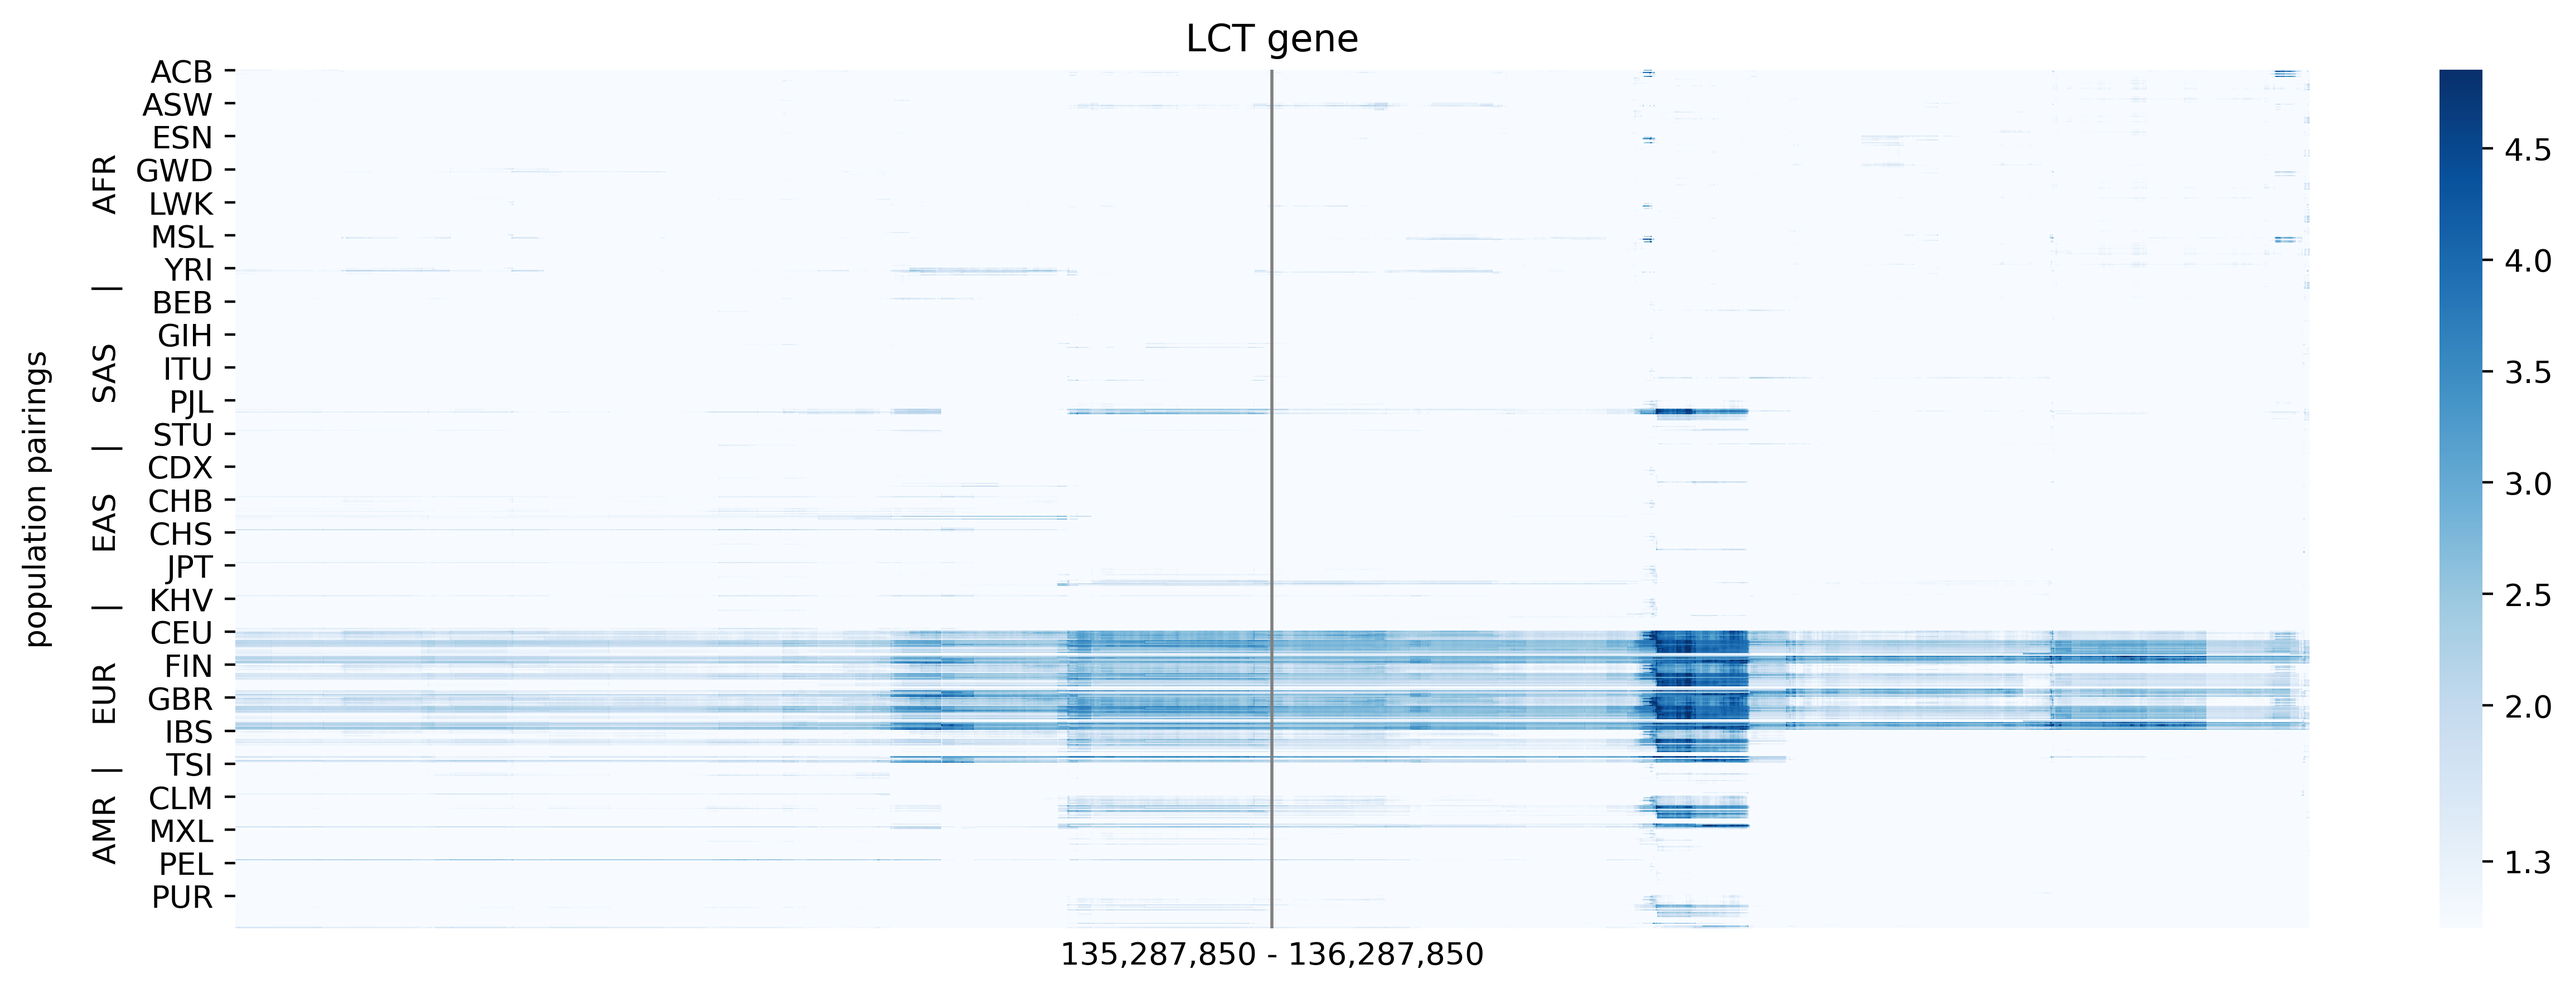
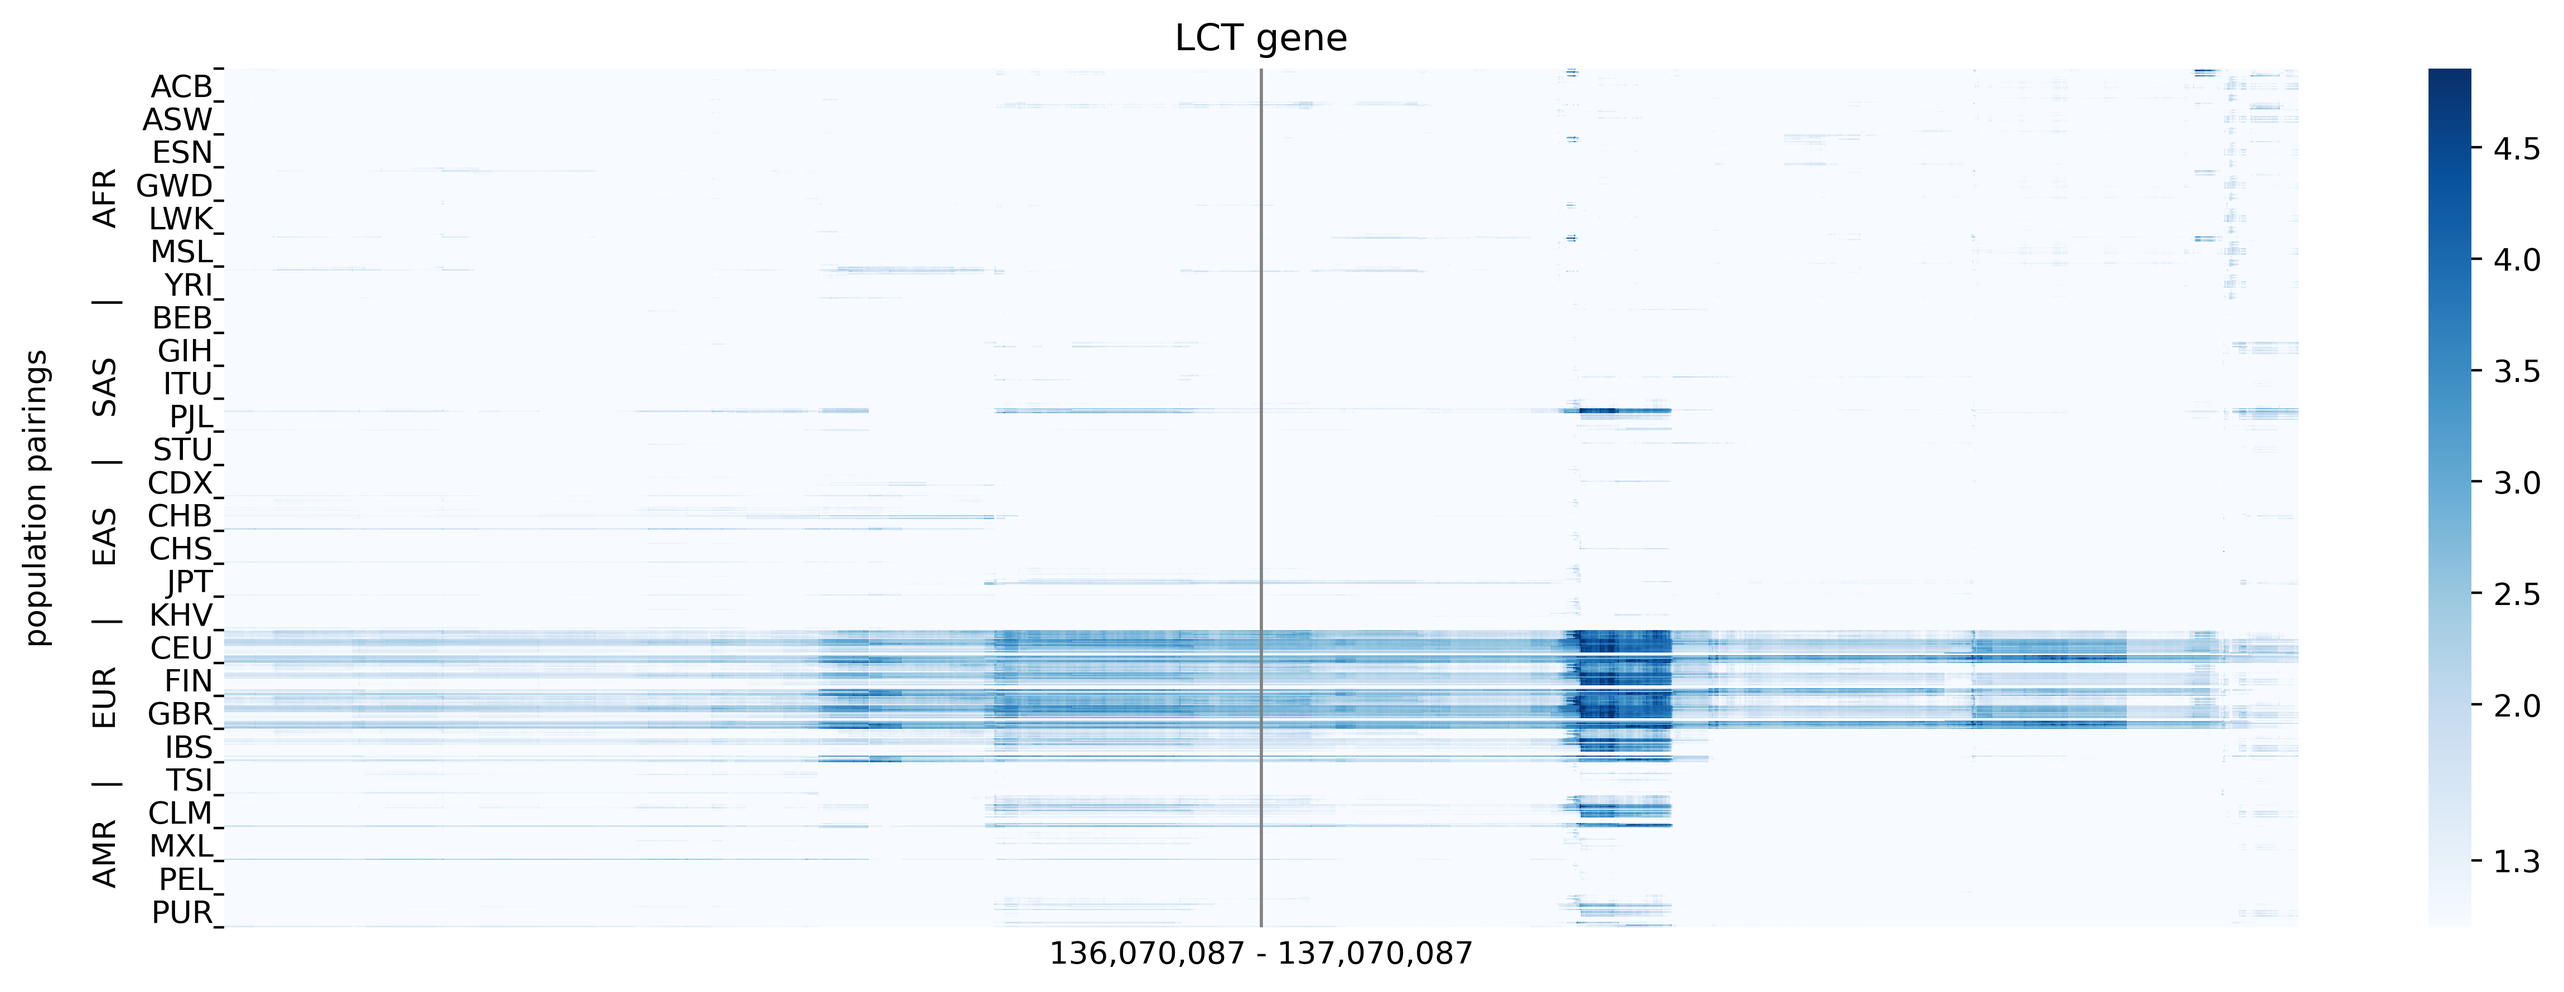
example fixed

diff --git a/README.md b/README.md
@@ -59,7 +59,7 @@ After installing the package, try to construct ExP heatmap in **three simple ste
 2. **Unpack** the zipped folder `chr2.xpehh.example/` in your working directory: `unzip chr2.xpehh.example.zip`
 3. **Run** the following command:
 ```bash
-exp_heatmap plot chr2.xpehh.example/ --begin 135287850 --end 136287850 --title "LCT gene" --output LCT_xpehh
+exp_heatmap plot chr2.xpehh.example/ --begin 136070087 --end 137070087 --title "LCT gene" --output LCT_xpehh
 ```
 The `exp_heatmap` package will read the files from `chr2.xpehh.example/` folder and create the ExP heatmap and save it as `LCT_xpehh.png` file.
 
